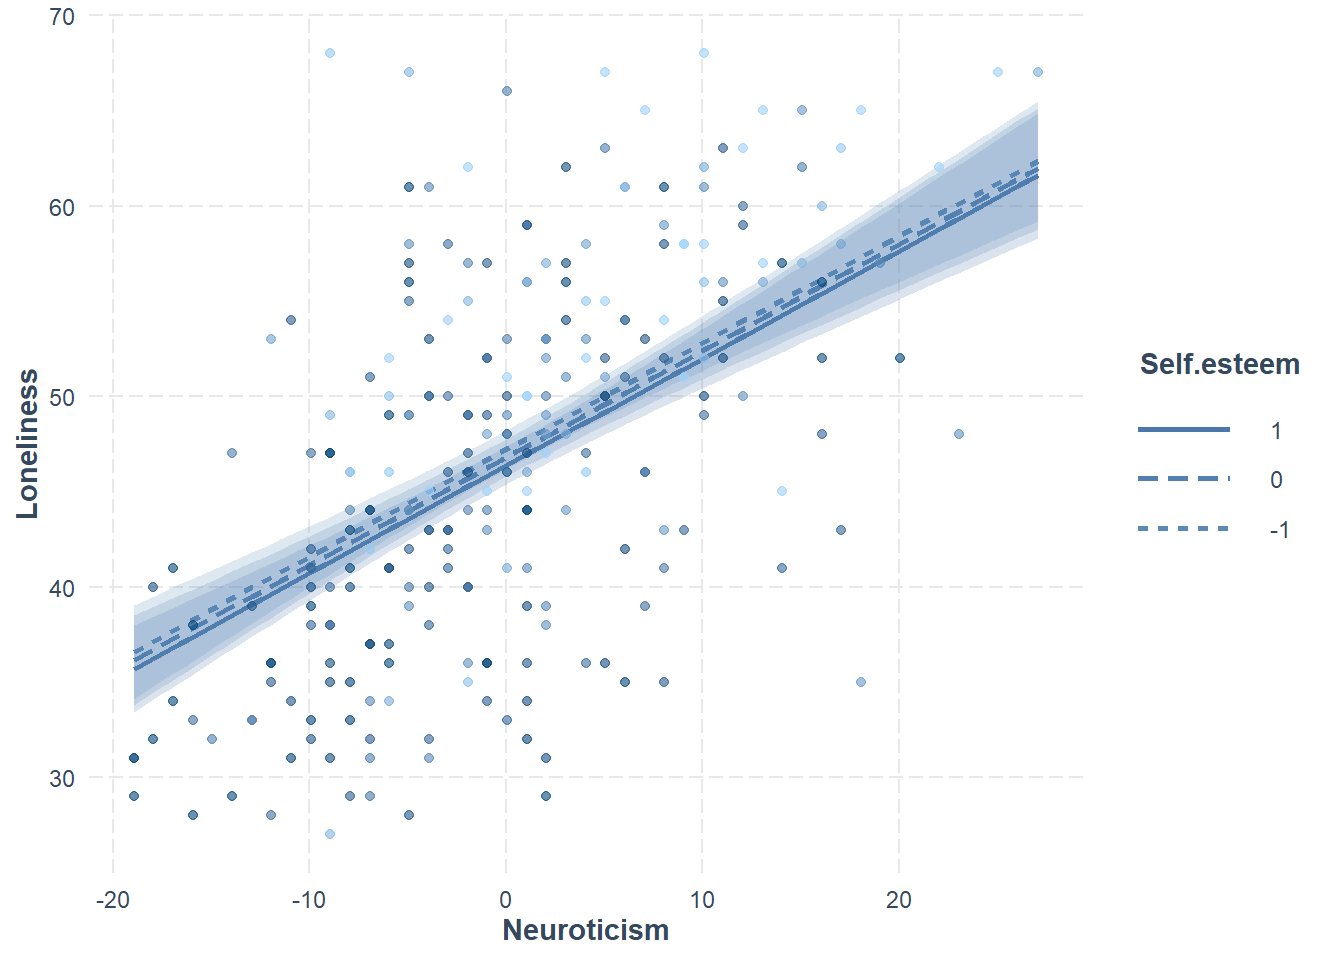
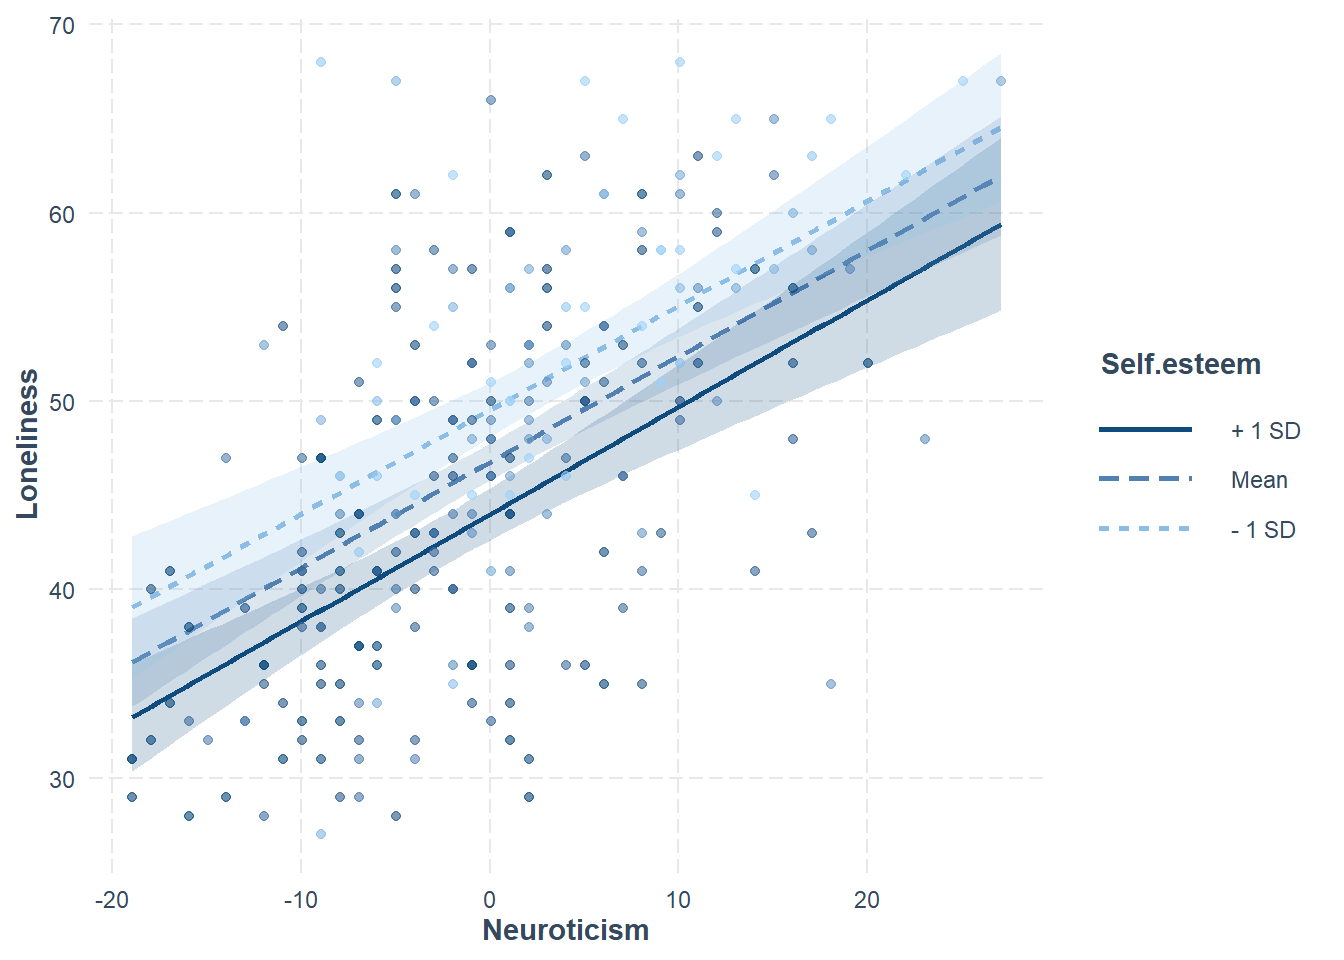
Week5 HW clarificaitons on moderation

diff --git a/docs/PS71020_Unit5_Homework.html b/docs/PS71020_Unit5_Homework.html
@@ -871,13 +871,16 @@ F-statistic: 59.92 on 3 and 252 DF,  p-value: &lt; 2.2e-16</code></pre>
 </div>
 </div>
 <p>We can see that adding the interaction variable accounts for almost no additional variance <span class="math inline">\(\Delta\)</span>R<sup>2</sup> = 0.00005 and that the <code>Self.esteem:Neuroticism</code> interaction term is not significant <em>b</em> = 0.001, <em>t</em> = 0.146, <em>p</em> = 0.884. So we have no evidence of a moderation effect here.</p>
-<p>Normally, we would not bother to run a simple slopes analysis given the above, but in this case if we examine the simple slopes plot we can see there is no interaction between these variables at all.</p>
+<p>Normally, we would not bother to run a simple slopes analysis given the above, but in this case if we examine the simple slopes plot we can see there is no interaction between these variables at all. As there is a significant effect for both predictors, the lines are not flat (the positive effect of Neuroticism on Loneliness), they are also offset with higher self esteem associated with lower Loneliness (the +1 SD line is lower than the mean which is again lower than the -1SD line). However, crucially the lines are parallel which is the absence of the interaction effect.</p>
 <div class="cell">
-<div class="code-copy-outer-scaffold"><div class="sourceCode cell-code" id="cb71"><pre class="sourceCode r code-with-copy"><code class="sourceCode r"><span id="cb71-1"><a href="#cb71-1" aria-hidden="true" tabindex="-1"></a><span class="fu">library</span>(interactions)</span>
-<span id="cb71-2"><a href="#cb71-2" aria-hidden="true" tabindex="-1"></a><span class="fu">interact_plot</span>(mdlMod2, <span class="at">pred =</span> Neuroticism, <span class="at">modx =</span> Self.esteem,</span>
-<span id="cb71-3"><a href="#cb71-3" aria-hidden="true" tabindex="-1"></a>              <span class="at">modx.values =</span> <span class="fu">c</span>(<span class="sc">-</span><span class="dv">1</span>, <span class="dv">0</span>, <span class="dv">1</span>),</span>
-<span id="cb71-4"><a href="#cb71-4" aria-hidden="true" tabindex="-1"></a>              <span class="at">plot.points =</span> <span class="cn">TRUE</span>,</span>
-<span id="cb71-5"><a href="#cb71-5" aria-hidden="true" tabindex="-1"></a>              <span class="at">interval =</span> <span class="cn">TRUE</span>)</span></code></pre></div><button title="Copy to Clipboard" class="code-copy-button"><i class="bi"></i></button></div>
+<div class="code-copy-outer-scaffold"><div class="sourceCode cell-code" id="cb71"><pre class="sourceCode r code-with-copy"><code class="sourceCode r"><span id="cb71-1"><a href="#cb71-1" aria-hidden="true" tabindex="-1"></a><span class="co">#Note that when we did this in the lab we used an argument of modx.values = c(-1, 0, 1)</span></span>
+<span id="cb71-2"><a href="#cb71-2" aria-hidden="true" tabindex="-1"></a><span class="co">#This was because we had already z-scored the data so requesting the estimates at -1, 0, and 1</span></span>
+<span id="cb71-3"><a href="#cb71-3" aria-hidden="true" tabindex="-1"></a><span class="co">#was already in terms of SDs. Below we just use the default which produces them at the mean +- 1SD</span></span>
+<span id="cb71-4"><a href="#cb71-4" aria-hidden="true" tabindex="-1"></a><span class="co">#Using modx.values = c(-1, 0, 1) in this case would be the actual values of -1, 0 and 1 of the moderator in it's original units.</span></span>
+<span id="cb71-5"><a href="#cb71-5" aria-hidden="true" tabindex="-1"></a><span class="fu">library</span>(interactions)</span>
+<span id="cb71-6"><a href="#cb71-6" aria-hidden="true" tabindex="-1"></a><span class="fu">interact_plot</span>(mdlMod2, <span class="at">pred =</span> Neuroticism, <span class="at">modx =</span> Self.esteem,</span>
+<span id="cb71-7"><a href="#cb71-7" aria-hidden="true" tabindex="-1"></a>              <span class="at">plot.points =</span> <span class="cn">TRUE</span>,</span>
+<span id="cb71-8"><a href="#cb71-8" aria-hidden="true" tabindex="-1"></a>              <span class="at">interval =</span> <span class="cn">TRUE</span>)</span></code></pre></div><button title="Copy to Clipboard" class="code-copy-button"><i class="bi"></i></button></div>
 <div class="cell-output-display">
 <div>
 <figure class="figure">
@@ -886,19 +889,39 @@ F-statistic: 59.92 on 3 and 252 DF,  p-value: &lt; 2.2e-16</code></pre>
 </div>
 </div>
 </div>
-<p>However, we can also use the <code>mediate()</code> function to perform all of this for us:</p>
+<p>We can also use the <code>psych:sim_slopes()</code> function to perform a simple slopes analysis:</p>
 <div class="cell">
-<div class="code-copy-outer-scaffold"><div class="sourceCode cell-code" id="cb72"><pre class="sourceCode r code-with-copy"><code class="sourceCode r"><span id="cb72-1"><a href="#cb72-1" aria-hidden="true" tabindex="-1"></a>mod <span class="ot">&lt;-</span> <span class="fu">mediate</span>(Loneliness <span class="sc">~</span> Neuroticism <span class="sc">*</span> Self.esteem,</span>
-<span id="cb72-2"><a href="#cb72-2" aria-hidden="true" tabindex="-1"></a>               <span class="at">data =</span> dfTrim,</span>
-<span id="cb72-3"><a href="#cb72-3" aria-hidden="true" tabindex="-1"></a>               <span class="at">n.iter =</span> <span class="dv">5000</span>)</span></code></pre></div><button title="Copy to Clipboard" class="code-copy-button"><i class="bi"></i></button></div>
+<div class="code-copy-outer-scaffold"><div class="sourceCode cell-code" id="cb72"><pre class="sourceCode r code-with-copy"><code class="sourceCode r"><span id="cb72-1"><a href="#cb72-1" aria-hidden="true" tabindex="-1"></a><span class="co">#Note again using the default option instead of modx.values = c(-1, 0, 1) for the same reason as above.</span></span>
+<span id="cb72-2"><a href="#cb72-2" aria-hidden="true" tabindex="-1"></a>ss2 <span class="ot">&lt;-</span> <span class="fu">sim_slopes</span>(mdlMod2,</span>
+<span id="cb72-3"><a href="#cb72-3" aria-hidden="true" tabindex="-1"></a>                  <span class="at">pred   =</span> Neuroticism,</span>
+<span id="cb72-4"><a href="#cb72-4" aria-hidden="true" tabindex="-1"></a>                  <span class="at">modx   =</span> Self.esteem,</span>
+<span id="cb72-5"><a href="#cb72-5" aria-hidden="true" tabindex="-1"></a>                  )</span>
+<span id="cb72-6"><a href="#cb72-6" aria-hidden="true" tabindex="-1"></a>tab2 <span class="ot">&lt;-</span> ss2<span class="sc">$</span>slopes</span>
+<span id="cb72-7"><a href="#cb72-7" aria-hidden="true" tabindex="-1"></a>tab2 </span></code></pre></div><button title="Copy to Clipboard" class="code-copy-button"><i class="bi"></i></button></div>
+<div class="cell-output cell-output-stdout">
+<pre><code>  Value of Self.esteem      Est.       S.E.      2.5%     97.5%   t val.
+1            -6.640385 0.5535510 0.08000668 0.3959840 0.7111179 6.918809
+2             0.000000 0.5613993 0.05686905 0.4494001 0.6733984 9.871788
+3             6.640385 0.5692475 0.07644272 0.4186995 0.7197956 7.446720
+             p
+1 3.746162e-11
+2 1.211712e-19
+3 1.518853e-12</code></pre>
+</div>
+</div>
+<p>However, we can also use the <code>mediate()</code> function to perform all of this for us. Notice that here we are not using the manually mean centered data in <code>dfC</code>, instead we are using the raw data in <code>dfTrim</code>, the <code>mediate()</code> function applies mean centering automatically.</p>
+<div class="cell">
+<div class="code-copy-outer-scaffold"><div class="sourceCode cell-code" id="cb74"><pre class="sourceCode r code-with-copy"><code class="sourceCode r"><span id="cb74-1"><a href="#cb74-1" aria-hidden="true" tabindex="-1"></a>mod <span class="ot">&lt;-</span> <span class="fu">mediate</span>(Loneliness <span class="sc">~</span> Neuroticism <span class="sc">*</span> Self.esteem,</span>
+<span id="cb74-2"><a href="#cb74-2" aria-hidden="true" tabindex="-1"></a>               <span class="at">data =</span> dfTrim,</span>
+<span id="cb74-3"><a href="#cb74-3" aria-hidden="true" tabindex="-1"></a>               <span class="at">n.iter =</span> <span class="dv">5000</span>)</span></code></pre></div><button title="Copy to Clipboard" class="code-copy-button"><i class="bi"></i></button></div>
 <div class="cell-output-display">
 <div>
 <figure class="figure">
-<p><img src="PS71020_Unit5_Homework_files/figure-html/unnamed-chunk-16-1.png" class="img-fluid figure-img" width="672"></p>
+<p><img src="PS71020_Unit5_Homework_files/figure-html/unnamed-chunk-17-1.png" class="img-fluid figure-img" width="672"></p>
 </figure>
 </div>
 </div>
-<div class="code-copy-outer-scaffold"><div class="sourceCode cell-code" id="cb73"><pre class="sourceCode r code-with-copy"><code class="sourceCode r"><span id="cb73-1"><a href="#cb73-1" aria-hidden="true" tabindex="-1"></a><span class="fu">print</span>(mod, <span class="at">short =</span> <span class="cn">FALSE</span>)</span></code></pre></div><button title="Copy to Clipboard" class="code-copy-button"><i class="bi"></i></button></div>
+<div class="code-copy-outer-scaffold"><div class="sourceCode cell-code" id="cb75"><pre class="sourceCode r code-with-copy"><code class="sourceCode r"><span id="cb75-1"><a href="#cb75-1" aria-hidden="true" tabindex="-1"></a><span class="fu">print</span>(mod, <span class="at">short =</span> <span class="cn">FALSE</span>)</span></code></pre></div><button title="Copy to Clipboard" class="code-copy-button"><i class="bi"></i></button></div>
 <div class="cell-output cell-output-stdout">
 <pre><code>
 Mediation/Moderation Analysis 
